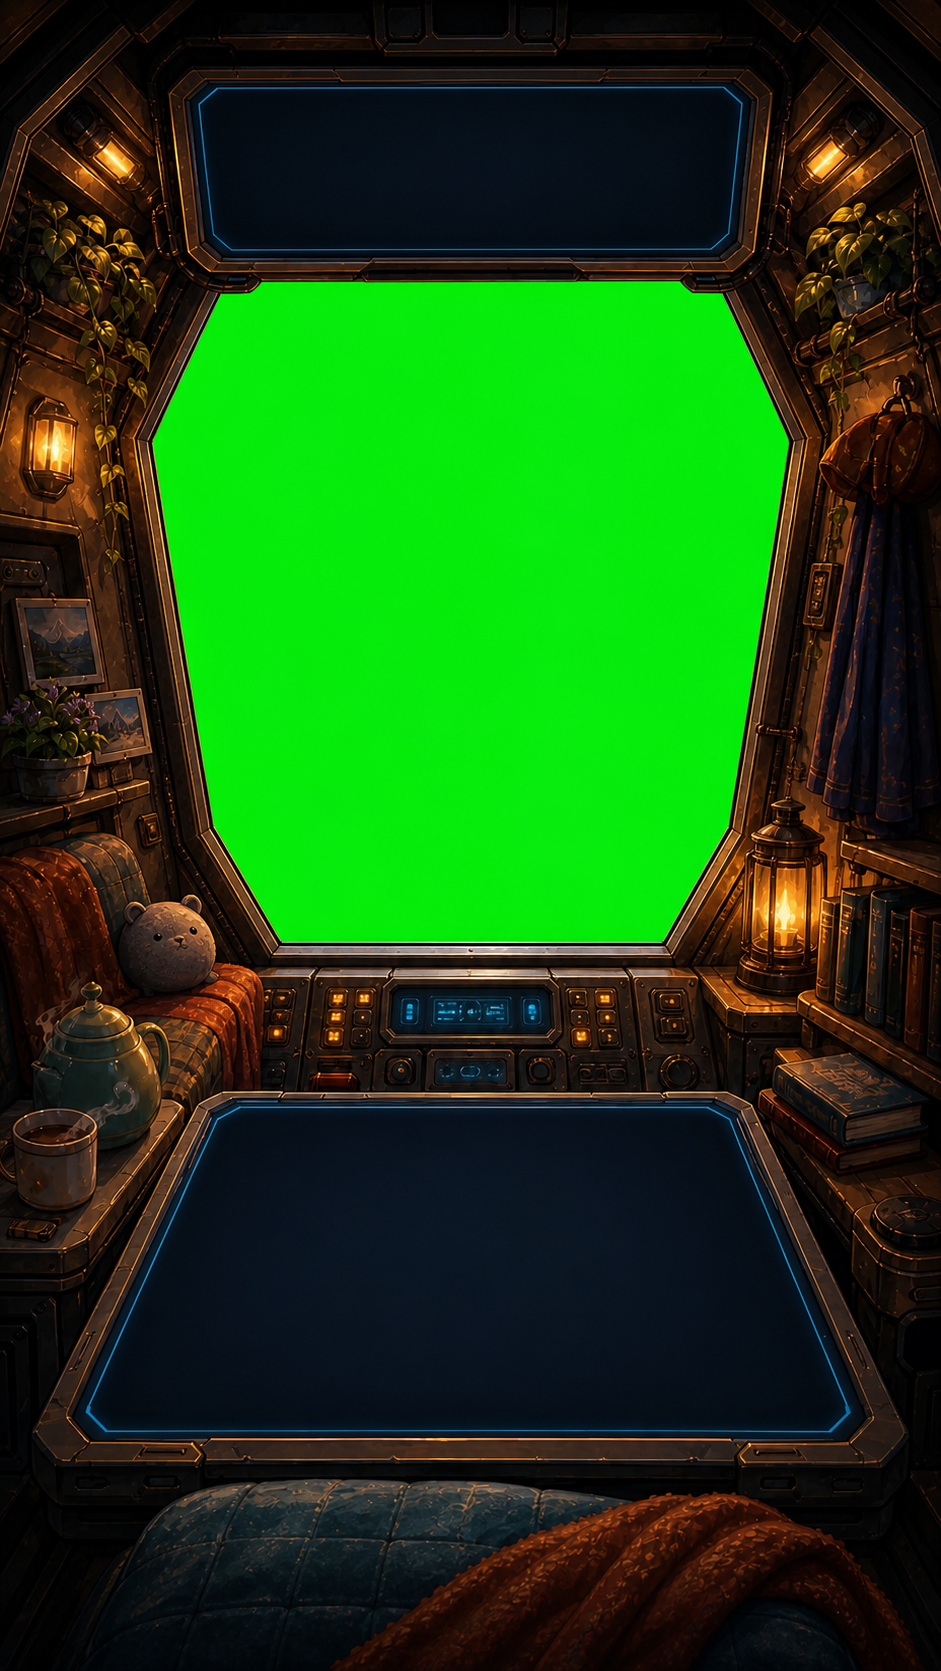
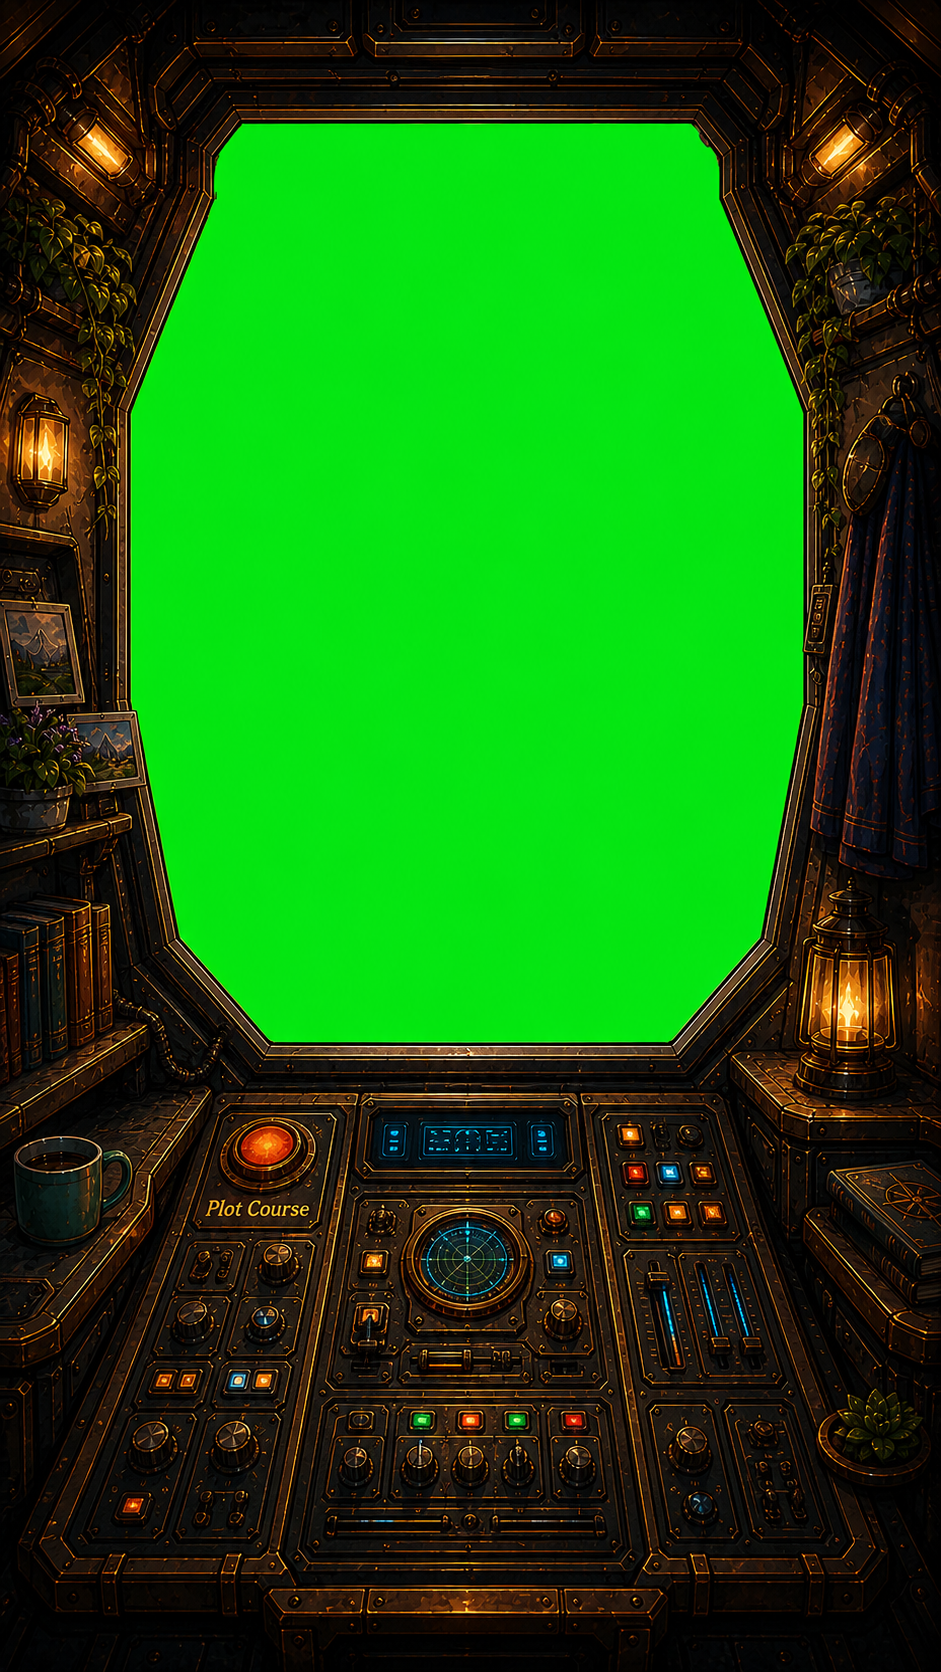
new cockpit and plot button

diff --git a/src/styles.css b/src/styles.css
@@ -3143,3 +3143,226 @@ body {
     transform: scale(1);
   }
 }
+
+/* Reimagined cockpit: floating window holograms and physical course control. */
+
+.view-cockpit .cockpit-top-band {
+  left: 18%;
+  right: 18%;
+  top: 5.5%;
+  pointer-events: none;
+}
+
+.view-cockpit .cockpit-top-band .holo-panel {
+  padding: 7px 10px;
+  border: 1px solid rgba(118, 224, 255, 0.22);
+  border-radius: 8px;
+  background:
+    linear-gradient(90deg, transparent, rgba(115, 226, 255, 0.08) 18% 82%, transparent),
+    rgba(6, 22, 34, 0.18);
+  box-shadow:
+    inset 0 0 18px rgba(85, 215, 255, 0.08),
+    0 0 18px rgba(85, 215, 255, 0.12);
+}
+
+.view-cockpit .cockpit-top-band h2 {
+  font-size: clamp(0.88rem, 2.7vw, 1.08rem);
+}
+
+.view-cockpit .cockpit-top-band p:not(.eyebrow) {
+  font-size: clamp(0.62rem, 1.8vw, 0.74rem);
+}
+
+.cockpit-holo-fields {
+  position: absolute;
+  left: 9.5%;
+  right: 9.5%;
+  top: 48%;
+  display: grid;
+  grid-template-columns: minmax(0, 1.08fr) minmax(0, 0.82fr);
+  gap: 8%;
+  align-items: end;
+  pointer-events: none;
+}
+
+.view-cockpit .current-lead-panel,
+.view-cockpit .resource-holo-panel {
+  position: relative;
+  min-height: 0;
+  padding: 9px 11px;
+  border: 1px solid rgba(109, 226, 255, 0.4);
+  border-radius: 7px;
+  background:
+    linear-gradient(90deg, rgba(115, 226, 255, 0.16), transparent 12% 88%, rgba(115, 226, 255, 0.1)),
+    repeating-linear-gradient(180deg, rgba(162, 238, 255, 0.09) 0 1px, transparent 1px 9px),
+    rgba(5, 24, 36, 0.2);
+  box-shadow:
+    inset 0 0 26px rgba(95, 218, 255, 0.16),
+    0 0 18px rgba(82, 207, 255, 0.2);
+  color: #dff9ff;
+}
+
+.view-cockpit .current-lead-panel::before,
+.view-cockpit .resource-holo-panel::before,
+.view-cockpit .current-lead-panel::after,
+.view-cockpit .resource-holo-panel::after {
+  content: "";
+  position: absolute;
+  pointer-events: none;
+}
+
+.view-cockpit .current-lead-panel::before,
+.view-cockpit .resource-holo-panel::before {
+  inset: -1px;
+  border-radius: inherit;
+  background:
+    linear-gradient(90deg, #86ecff 0 20px, transparent 20px calc(100% - 20px), #86ecff calc(100% - 20px)),
+    linear-gradient(180deg, #86ecff 0 12px, transparent 12px calc(100% - 12px), #86ecff calc(100% - 12px));
+  opacity: 0.32;
+  mask: linear-gradient(#000 0 0) content-box, linear-gradient(#000 0 0);
+  -webkit-mask: linear-gradient(#000 0 0) content-box, linear-gradient(#000 0 0);
+  mask-composite: exclude;
+  -webkit-mask-composite: xor;
+  padding: 1px;
+}
+
+.view-cockpit .current-lead-panel::after,
+.view-cockpit .resource-holo-panel::after {
+  left: 8px;
+  right: 8px;
+  bottom: -5px;
+  height: 1px;
+  background: rgba(130, 235, 255, 0.7);
+  box-shadow: 0 0 12px rgba(91, 223, 255, 0.72);
+}
+
+.view-cockpit .current-lead-panel {
+  --screen-transform: perspective(620px) rotateX(2deg) rotateY(7deg) skewX(-2deg);
+}
+
+.view-cockpit .resource-holo-panel {
+  --screen-transform: perspective(620px) rotateX(2deg) rotateY(-7deg) skewX(2deg);
+}
+
+.view-cockpit .current-lead-panel h3 {
+  margin-top: 3px;
+  color: #f4fbff;
+  font-size: clamp(0.86rem, 2.7vw, 1.08rem);
+  line-height: 1.05;
+}
+
+.view-cockpit .current-lead-panel p:not(.eyebrow) {
+  display: -webkit-box;
+  margin: 5px 0 0;
+  overflow: hidden;
+  -webkit-box-orient: vertical;
+  -webkit-line-clamp: 2;
+  color: rgba(222, 250, 255, 0.86);
+  font-size: clamp(0.62rem, 1.9vw, 0.76rem);
+  line-height: 1.24;
+}
+
+.view-cockpit .lead-footer {
+  margin-top: 6px;
+}
+
+.view-cockpit .lead-footer span {
+  color: #93eaff;
+  font-size: clamp(0.58rem, 1.8vw, 0.68rem);
+  letter-spacing: 0.04em;
+  text-shadow: 0 0 10px rgba(111, 224, 255, 0.74);
+}
+
+.view-cockpit .resource-holo-panel .resource-strip {
+  display: grid;
+  grid-template-columns: repeat(2, minmax(0, 1fr));
+  gap: 5px 8px;
+  margin-top: 7px;
+}
+
+.view-cockpit .resource-holo-panel .resource {
+  display: flex;
+  justify-content: space-between;
+  gap: 5px;
+  padding: 0 0 3px;
+  border-bottom: 1px solid rgba(136, 231, 255, 0.18);
+}
+
+.view-cockpit .resource-holo-panel .resource span {
+  overflow: hidden;
+  color: #8ce9ff;
+  font-size: clamp(0.5rem, 1.55vw, 0.58rem);
+  text-overflow: clip;
+}
+
+.view-cockpit .resource-holo-panel .resource strong {
+  color: #fff1b8;
+  font-size: clamp(0.58rem, 1.7vw, 0.68rem);
+}
+
+.cockpit-control-deck {
+  position: absolute;
+  left: 17.8%;
+  right: 68.8%;
+  bottom: 29.2%;
+  display: flex;
+  justify-content: center;
+  pointer-events: auto;
+}
+
+.plot-course-control {
+  width: 100%;
+  min-width: 0;
+  min-height: 7.2vh;
+  padding: 0;
+  border: 0;
+  border-radius: 16px;
+  background: transparent;
+  color: transparent;
+  box-shadow: none;
+  font-size: 0;
+  text-shadow: none;
+}
+
+.plot-course-control:hover {
+  background: rgba(255, 205, 111, 0.06);
+  box-shadow: 0 0 18px rgba(255, 202, 104, 0.18);
+}
+
+.plot-course-control:active {
+  background: rgba(255, 173, 72, 0.12);
+}
+
+@media (max-width: 700px) {
+  .cockpit-holo-fields {
+    left: 8%;
+    right: 8%;
+    top: 47%;
+    gap: 5%;
+    grid-template-columns: minmax(0, 1.05fr) minmax(0, 0.95fr);
+  }
+
+  .view-cockpit .current-lead-panel,
+  .view-cockpit .resource-holo-panel {
+    padding: 8px;
+  }
+
+  .view-cockpit .resource-holo-panel .resource-strip {
+    grid-template-columns: 1fr;
+    gap: 4px;
+  }
+
+  .view-cockpit .resource-holo-panel .resource:nth-child(n + 4) {
+    display: none;
+  }
+
+  .cockpit-control-deck {
+    left: 17%;
+    right: 68%;
+    bottom: 29%;
+  }
+
+  .plot-course-control {
+    min-height: 6.6vh;
+  }
+}

diff --git a/src/App.tsx b/src/App.tsx
@@ -56,6 +56,7 @@ function App() {
   const [activeEncounterId, setActiveEncounterId] = useState<string | null>(null);
   const [choiceResult, setChoiceResult] = useState<string | null>(null);
   const [arrivalApproach, setArrivalApproach] = useState<ArrivalApproach | null>(null);
+  const [pendingMapFocusSystemId, setPendingMapFocusSystemId] = useState<string | null>(null);
   const [now, setNow] = useState(() => Date.now());
 
   const currentSystem = getSystem(state.currentSystemId);
@@ -225,6 +226,12 @@ function App() {
   };
 
   const followLead = () => {
+    if (currentLead.destinationId) {
+      setPendingMapFocusSystemId(currentLead.destinationId);
+      goTo('map');
+      return;
+    }
+
     goTo(currentLead.actionView);
   };
 
@@ -292,8 +299,10 @@ function App() {
               state={state}
               systems={visibleSystems}
               recommendedSystemId={currentLead.destinationId}
+              pendingMapFocusSystemId={pendingMapFocusSystemId}
               radioHistory={radioHistory}
               onLeadAction={followLead}
+              onMapFocusHandled={() => setPendingMapFocusSystemId(null)}
               onTravel={startTravel}
               onReset={resetSave}
               onNavigate={navigateCabin}
@@ -376,8 +385,10 @@ function PanoramicCabinExperience({
   state,
   systems,
   recommendedSystemId,
+  pendingMapFocusSystemId,
   radioHistory,
   onLeadAction,
+  onMapFocusHandled,
   onTravel,
   onReset,
   onNavigate
@@ -391,8 +402,10 @@ function PanoramicCabinExperience({
   state: PlayerState;
   systems: StarSystem[];
   recommendedSystemId?: string;
+  pendingMapFocusSystemId: string | null;
   radioHistory: RadioMessage[];
   onLeadAction: () => void;
+  onMapFocusHandled: () => void;
   onTravel: (system: StarSystem) => void;
   onReset: () => void;
   onNavigate: (direction: 1 | -1) => void;
@@ -492,10 +505,13 @@ function PanoramicCabinExperience({
               state={state}
               systems={systems}
               recommendedSystemId={recommendedSystemId}
+              pendingMapFocusSystemId={pendingMapFocusSystemId}
               radioHistory={radioHistory}
               onLeadAction={onLeadAction}
+              onMapFocusHandled={onMapFocusHandled}
               onTravel={onTravel}
               onReset={onReset}
+              visibleView={activeView}
             />
           </div>
         ))}
@@ -514,10 +530,13 @@ function CabinOverlay({
   state,
   systems,
   recommendedSystemId,
+  pendingMapFocusSystemId,
   radioHistory,
   onLeadAction,
+  onMapFocusHandled,
   onTravel,
-  onReset
+  onReset,
+  visibleView
 }: {
   activeView: PrimaryViewId;
   currentSystem: StarSystem;
@@ -528,10 +547,13 @@ function CabinOverlay({
   state: PlayerState;
   systems: StarSystem[];
   recommendedSystemId?: string;
+  pendingMapFocusSystemId: string | null;
   radioHistory: RadioMessage[];
   onLeadAction: () => void;
+  onMapFocusHandled: () => void;
   onTravel: (system: StarSystem) => void;
   onReset: () => void;
+  visibleView: PrimaryViewId;
 }) {
   const activeDestination = activeTravel ? getSystem(activeTravel.toSystemId) : undefined;
   const arrivingDestination = arrivalApproach ? getSystem(arrivalApproach.systemId) : undefined;
@@ -549,6 +571,21 @@ function CabinOverlay({
       });
     }, 0);
   };
+
+  useEffect(() => {
+    if (activeView !== 'map' || visibleView !== 'map' || !pendingMapFocusSystemId) {
+      return;
+    }
+
+    setSelectedMapSystemId(pendingMapFocusSystemId);
+    window.setTimeout(() => {
+      systemCardRefs.current[pendingMapFocusSystemId]?.scrollIntoView({
+        block: 'nearest',
+        behavior: 'smooth'
+      });
+      onMapFocusHandled();
+    }, 0);
+  }, [activeView, onMapFocusHandled, pendingMapFocusSystemId, visibleView]);
 
   switch (activeView) {
     case 'cockpit':
@@ -579,22 +616,24 @@ function CabinOverlay({
               </p>
             </div>
           </div>
-          <div className="overlay-band cockpit-bottom-band">
+          <div className="cockpit-holo-fields">
             <div className="holo-panel current-lead-panel">
               <p className="eyebrow">Current lead</p>
               <h3>{currentLead.title}</h3>
               <p>{currentLead.description}</p>
               <div className="lead-footer">
                 <span>{getLeadDestinationName(currentLead)}</span>
-                <button className="primary-action" type="button" onClick={onLeadAction}>
-                  {currentLead.ctaLabel}
-                </button>
               </div>
             </div>
             <div className="holo-panel resource-holo-panel">
               <p className="eyebrow">{activeTravel ? 'Travel systems' : 'Ship status'}</p>
               <ResourceStrip state={state} compact />
             </div>
+          </div>
+          <div className="cockpit-control-deck">
+            <button className="plot-course-control" type="button" onClick={onLeadAction}>
+              {currentLead.ctaLabel}
+            </button>
           </div>
         </div>
       );